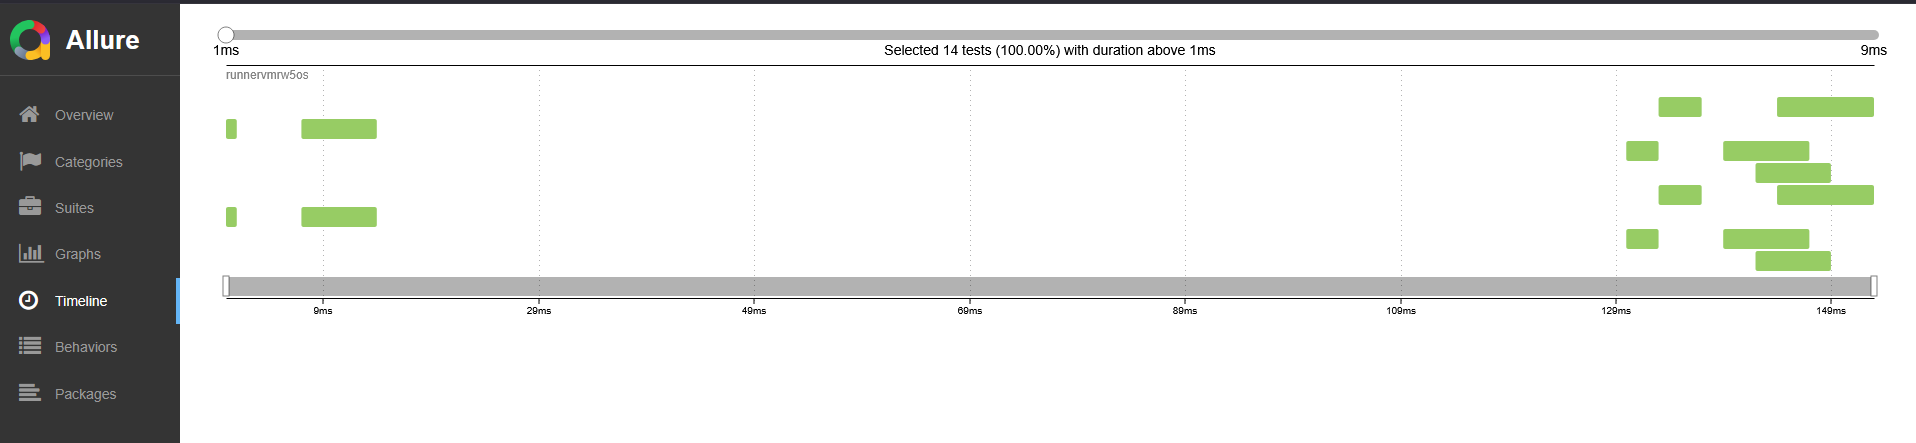
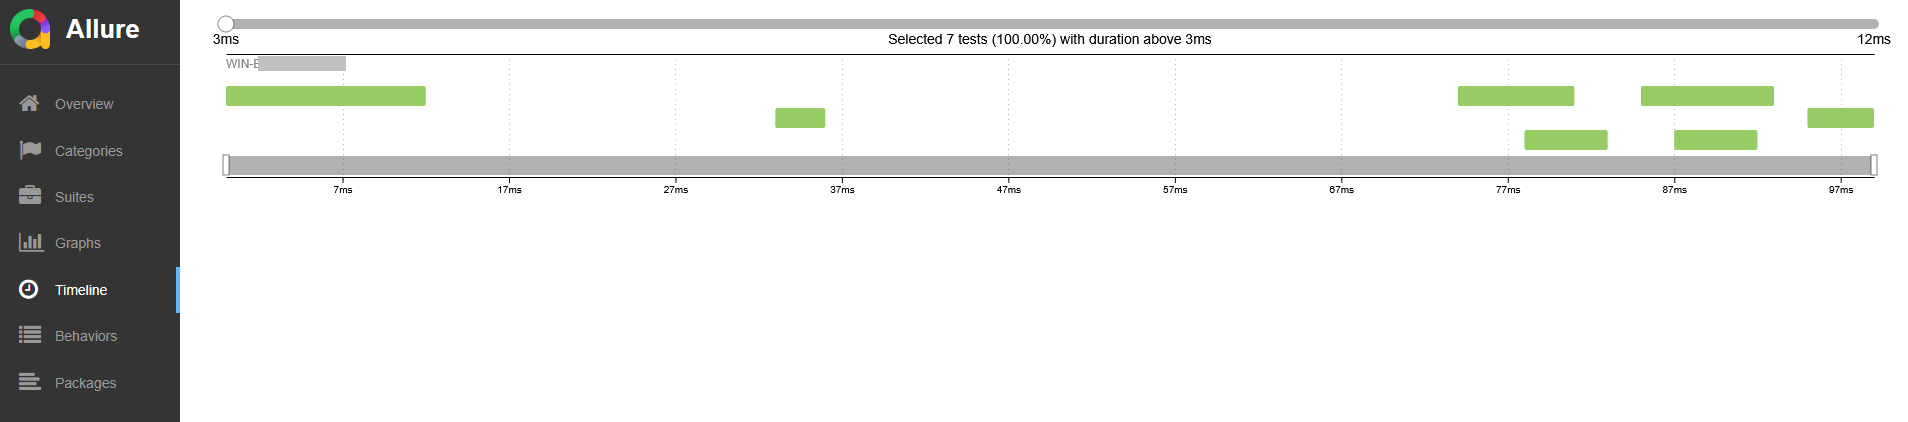
fix: eliminate allure test duplication and unify configuration via pytest.ini

diff --git a/tests/conftest.py b/tests/conftest.py
@@ -67,16 +67,3 @@ def db_conn(db_pool) -> Connection:
 def data_gen() -> WMSDataGenerator:
     """Предоставляет доступ к генератору фейковых данных."""
     return WMSDataGenerator()
-
-
-def pytest_collection_modifyitems(config, items):
-    """Хук для интеграции Allure и pytest-xdist.
-    Принудительно прописывает имя воркера в системные метки Allure до старта тестов."""
-    worker_id = getattr(config, "workerinput", {}).get("workerid")
-    if worker_id:
-        from allure_commons.types import LabelType
-
-        for item in items:
-            # Безопасно внедряем имя воркера (gw0, gw1...) как имя потока в метаданные теста
-            item.allure_meta = getattr(item, "allure_meta", None)
-            item.add_marker(pytest.mark.allure_label(worker_id, label_type=LabelType.THREAD))